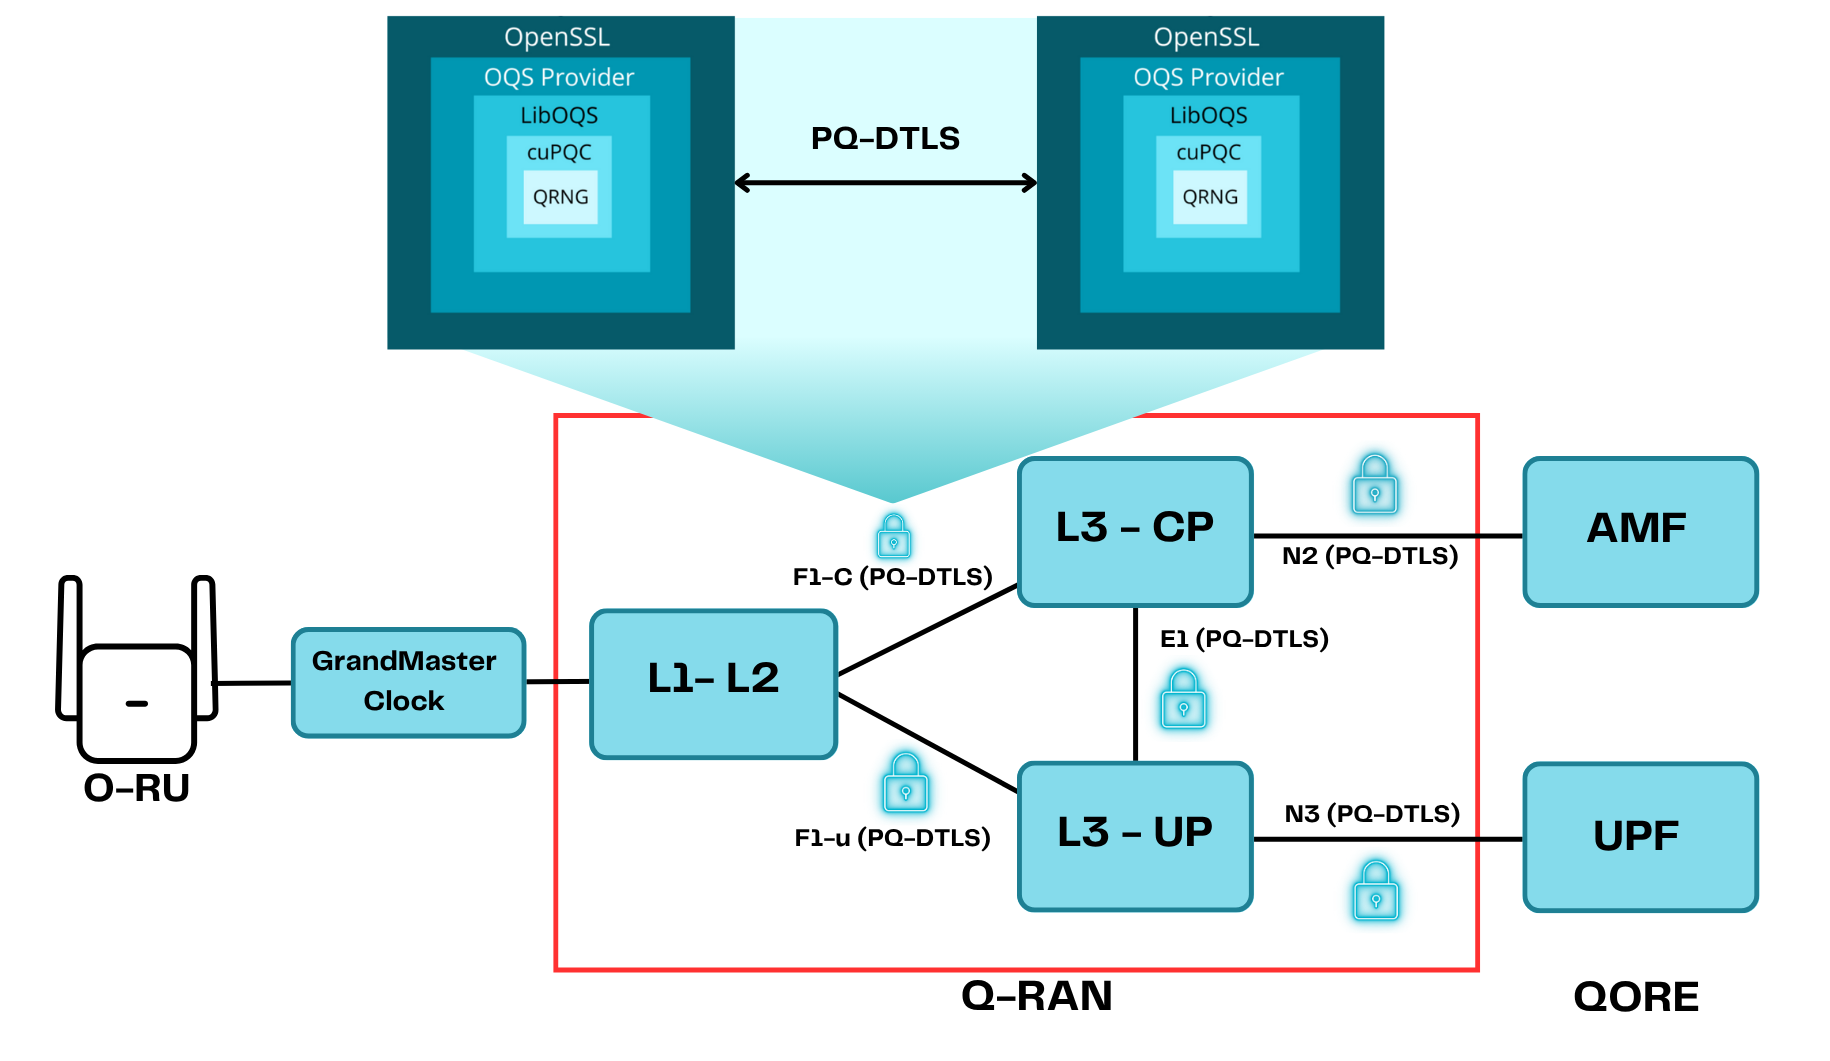
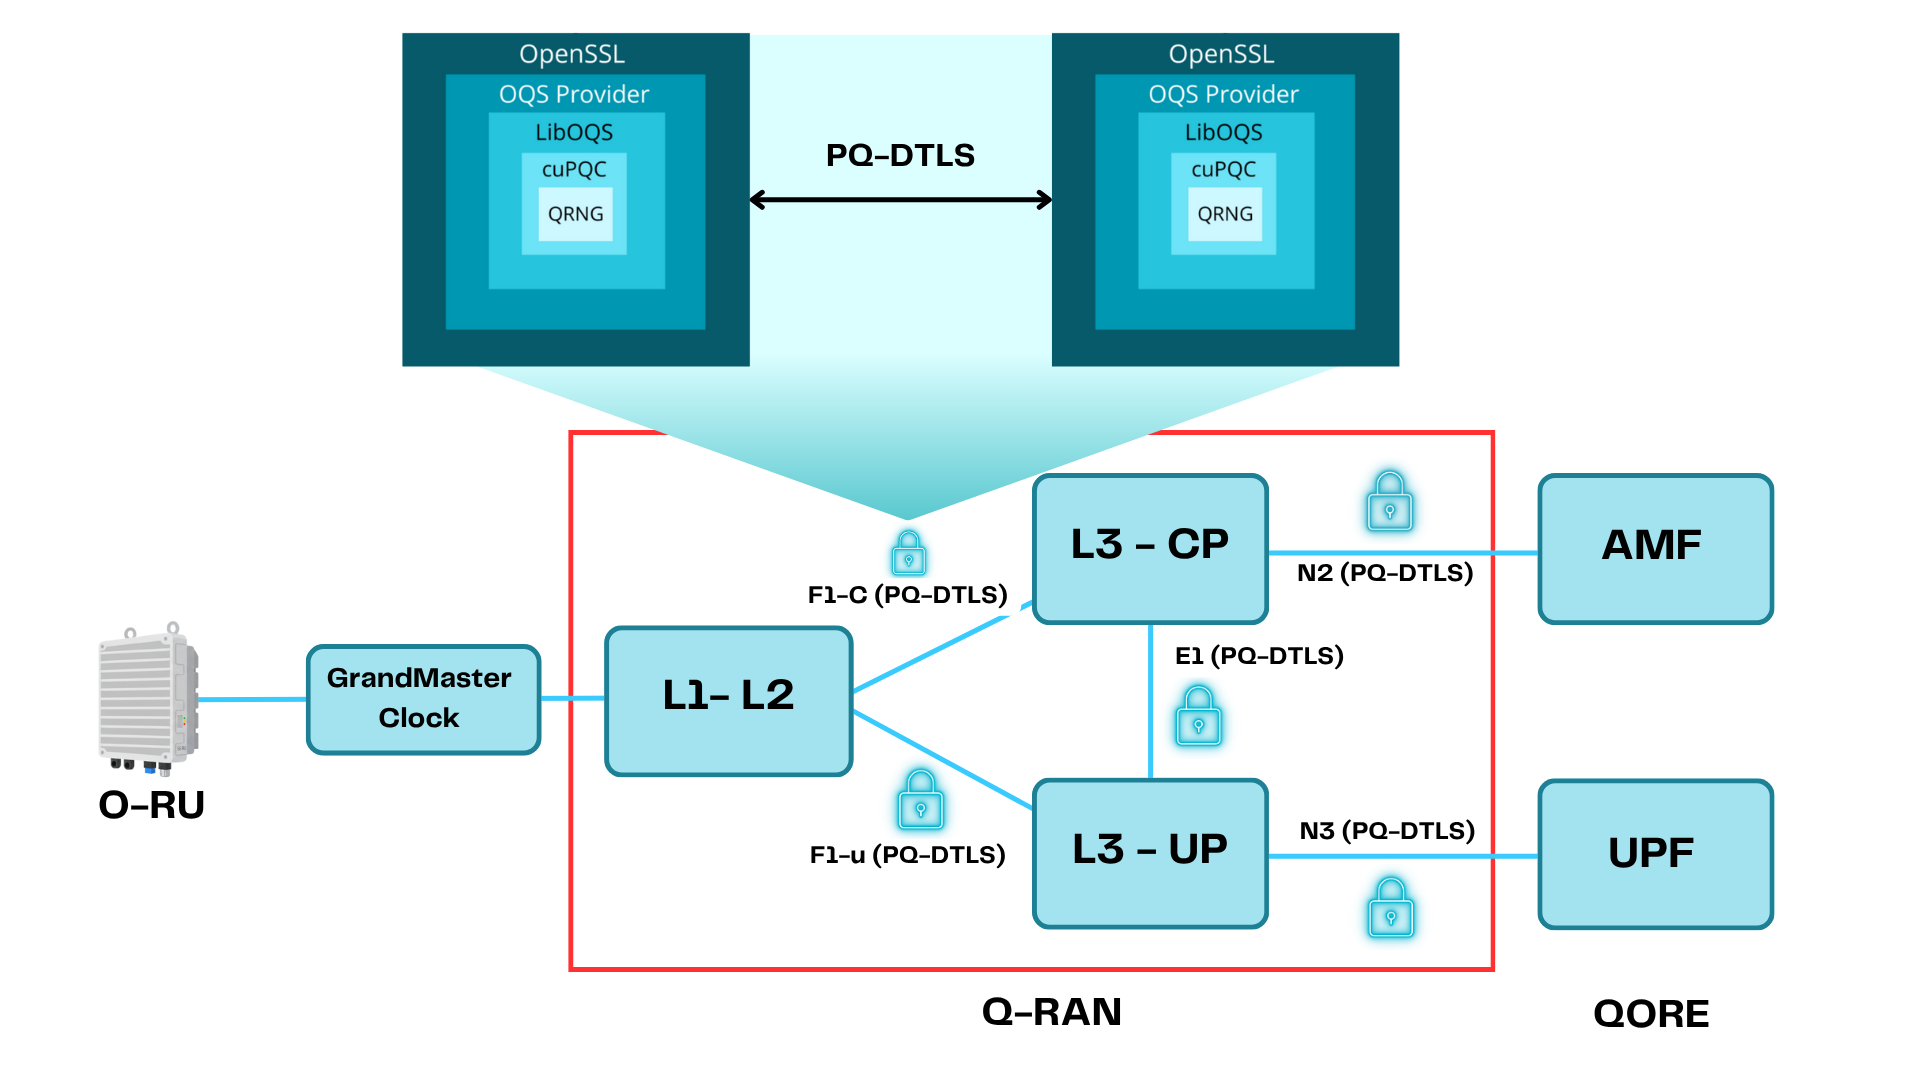
Updated Readme

Changed region(s): [[0.0311, 0.0, 0.9656, 0.9642], [0.841, 0.902, 0.9344, 0.9642]]

diff --git a/README.md b/README.md
@@ -1,12 +1,12 @@
 <table>
   <tr>
     <td><img src="images/coranlabs-logo.png" alt="Q-RAN Logo" width="80"/></td>
-    <td><h1 style="margin-left: 10px;">Q-RAN: Quantum Secure O-RAN</h1></td>
+    <td><h1 style="margin-left: 10px;">Q-RAN: Post-Quantum Secure O-RAN</h1></td>
   </tr>
 </table>
 
 **Q-RAN** is a made for research, post-quantum secure upgrade for the 5G Open RAN (O-RAN) architecture.  
-It secures all critical RAN interfaces using modern quantum-safe cryptography and is designed for future-proof telecom research.
+It secures all critical RAN interfaces using modern quantum-safe cryptography and is designed for future-proof telecom.
 
 ---
 
@@ -89,9 +89,6 @@ We acknowledge and appreciate the broader open-source community:
 - **[OAI](https://openairinterface.org/)** — as an architectural base for ran stack
 - **[QORE](https://github.com/CoranLabs/QORE/)** — Supported post Quantum safe 5G Core
 - **[OSC](https://github.com/o-ran-sc)** — for the xRAN library (7.2 split support) 
-- **[OpenSSL](https://www.openssl.org/)** — for secure TLS/DTLS foundation  
-- **[liboqs](https://github.com/open-quantum-safe/liboqs)** & **[oqs-provider](https://github.com/open-quantum-safe/oqs-provider)** — for quantum-safe crypto integration  
- 
 
 ---
 ## Documentation
@@ -104,6 +101,8 @@ For architecture diagrams, deployment guides, interface specs, and configuration
 
 - **Full IPSec support** across all interfaces  
 - **GPU Offloading** For accelerating PQ-DTLS  with **CUPQC** on NVIDIA GPU
+- **Migrate Other RAN Stacks** Migrate O-RAN Software Community DU_High, SRS Ran, SD-RAN to Post-Quantum Secure RANs
+- **Post-Quantum Secure SMO** Post-Quantum migration of O-RAN Software Community SMO, RICs
 - **HQC** Additional post-quantum key encapsulation mechanism under NIST consideration
 - **Falcon**  Compact and fast lattice-based digital signature scheme designed for constrained devices
 
@@ -112,7 +111,7 @@ For architecture diagrams, deployment guides, interface specs, and configuration
 
 We welcome research collaboration, issue reports, and integration ideas.
 
-📩 **Reach us at:** [contact@coranlabs.com](mailto:contact@coranlabs.com)
+**Reach us at:** [contact@coranlabs.com](mailto:contact@coranlabs.com)
 ---
 <p align="center">
   <a href="https://coranlabs.com" target="_blank">coranlabs.com</a>
